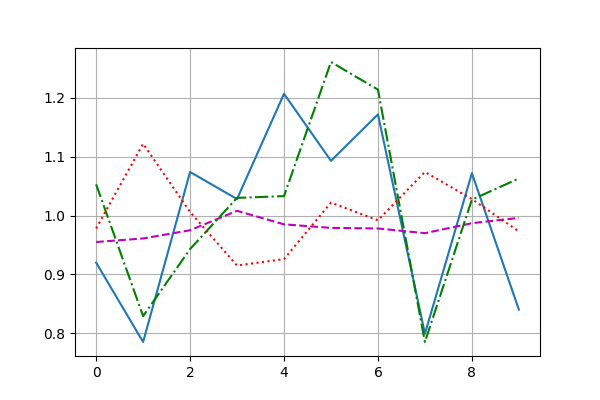
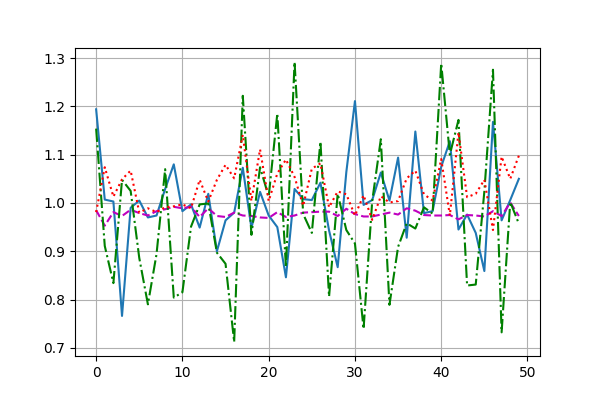
the implementaion of weight decay.

diff --git a/main.py b/main.py
@@ -11,13 +11,15 @@ warnings.filterwarnings("ignore", category=UserWarning)
 import argparse
 
 import torch
+import time
 from collections import defaultdict
 from torch.utils.data import DataLoader
 from torchvision.datasets import FashionMNIST
 from datasets.fashion_mnist import make_fashion_mnist_transforms
 import matplotlib.pyplot as plt
 from util.plot_utils import plot, save_plot
-
+from engine import train_one_epoch, evaluate
+import wandb
 def main_manual_linreg():
     from linear_regression.datasets.data import synthetic_data
     from linear_regression.datasets.data_util import data_iter
@@ -69,6 +71,7 @@ def main_manual_linreg():
     
     plot(x.flatten(), [y, pred_y], xlabel="x", ylabel="y")
     save_plot("manual_linreg_true_vs_pred_epoch_"+str(epochs))
+
 def main_concise_linreg():
     from linear_regression.datasets.data import synthetic_data
     from linear_regression.datasets.data_util import data_iter
@@ -117,7 +120,6 @@ def main_concise_linreg():
     plot(x.flatten(), [y, pred_y], xlabel="x", ylabel="y")
     save_plot("concise_linreg_true_vs_pred_epoch_"+str(epochs))
    
-   
 def main_manual_linregsm():
     from soft_max.manual_implementation.engine import train_one_epoch, evaluate
     from soft_max.manual_implementation import build_model
@@ -158,8 +160,8 @@ def main_manual_linregsm():
     titles = [true+'\n'+pred for true, pred in zip(trues,preds)]
     n=10
     show_images(x[:n].reshape(n, 28, 28), 1, n, titles=titles)
-    plt.show()
-     
+    plt.show()  
+
 def main_concise_linregsm():
     from soft_max.concise_implementation.model import SetCriterion, PostProcess, LinRegSm
     from soft_max.concise_implementation.engine import train_one_epoch, evaluate
@@ -174,11 +176,18 @@ def main_concise_linregsm():
     criterion = SetCriterion(args)
     postprocessor = PostProcess()
     optimizer = torch.optim.SGD(model.parameters(), lr=args.learning_rate)
+    
+    wandb.init(project=args.project,
+               dir = args.wandb_dir,
+               name = model.__class__.__name__ + "_" + time.asctime(),
+               reinit=True
+               )
     metrics = defaultdict(list)
     class_preds = [[0]*args.num_classes]
     for epoch in range(args.epochs):
         train_stats = train_one_epoch(model, criterion, dataset_loader_train, optimizer, epoch)
-        test_stats, fashionmnist_evaluator = evaluate(model, criterion, postprocessor, dataset_loader_test, args)
+        test_stats, fashionmnist_evaluator = evaluate(model, postprocessor, dataset_loader_test, args)
+        wandb.log({**train_stats, **test_stats})
         for k, v in train_stats.items():
             metrics[k].append(v)
         for k, v in test_stats.items():
@@ -190,7 +199,75 @@ def main_concise_linregsm():
         plot(v)
         save_plot("_".join([model.__class__.__name__, k]))
         plt.close()
+
+def main_mlp():
+    from mlp.model import MLP, SetCriterion, PostProcess
+    args = get_args_parser()
+    dataset_train, dataset_test = get_datasets(args)
+    data_train_loader = torch.utils.data.DataLoader(dataset_train, batch_size=args.batch_size, shuffle=True, num_workers=args.num_workers)
+    data_test_loader = torch.utils.data.DataLoader(dataset_test, batch_size=args.batch_size, shuffle=True, num_workers=args.num_workers)
+    model = MLP(num_inputs=args.num_inputs, num_classes=args.num_classes)
+    criterion = SetCriterion(args)
+    postprocessor = PostProcess()
+    optimizer = torch.optim.SGD(model.parameters(), lr=args.learning_rate)
+    if args.wandb:
+        wandb.init(project=args.project,
+                dir = args.wandb_dir,
+                name = model.__class__.__name__ + "_" + time.asctime(),
+                reinit=True
+                )
+    metrics = defaultdict(list)
+    for epoch in range(args.epochs):
+        train_stats = train_one_epoch(model,criterion, data_train_loader, optimizer, epoch)
+        test_stats, fashionmnist_evaluator = evaluate(model, postprocessor, data_test_loader, args)
+        if args.wandb:
+            wandb.log({**train_stats, **test_stats})
+        for k, v in train_stats.items():
+            metrics[k].append(v)
+        for k, v in test_stats.items():
+            metrics[k].append(v)
+        metrics['classes'].append([x/y for x, y in zip(fashionmnist_evaluator.pred_counts,fashionmnist_evaluator.label_counts)])
     
+    metrics['classes'] = list(map(list, zip(*metrics['classes'])))
+    for k, v in metrics.items():
+        plot(v)
+        save_plot("_".join([model.__class__.__name__, k]))
+        plt.close()  
+
+def main_mlp_decay():
+    from mlp.model import MLP, SetCriterion, PostProcess
+    args = get_args_parser()
+    dataset_train, dataset_test = get_datasets(args)
+    data_train_loader = torch.utils.data.DataLoader(dataset_train, batch_size=args.batch_size, shuffle=True, num_workers=args.num_workers)
+    data_test_loader = torch.utils.data.DataLoader(dataset_test, batch_size=args.batch_size, shuffle=True, num_workers=args.num_workers)
+    model = MLP(num_inputs=args.num_inputs, num_classes=args.num_classes)
+    criterion = SetCriterion(args)
+    postprocessor = PostProcess()
+    optimizer = torch.optim.SGD([{"params":[model.linear1.weight, model.linear2.weight], "weight_decay":args.weight_decay}, {"params": [model.linear1.bias, model.linear2.bias], "weight_decay":0.0}], lr=args.learning_rate)
+    if args.wandb:
+        wandb.init(project=args.project,
+                dir = args.wandb_dir,
+                name = model.__class__.__name__ +"_weight_decay_" + time.asctime(),
+                reinit=True
+                )
+    metrics = defaultdict(list)
+    for epoch in range(args.epochs):
+        train_stats = train_one_epoch(model,criterion, data_train_loader, optimizer, epoch)
+        test_stats, fashionmnist_evaluator = evaluate(model, postprocessor, data_test_loader, args)
+        if args.wandb:
+            wandb.log({**train_stats, **test_stats})
+        for k, v in train_stats.items():
+            metrics[k].append(v)
+        for k, v in test_stats.items():
+            metrics[k].append(v)
+        metrics['classes'].append([x/y for x, y in zip(fashionmnist_evaluator.pred_counts,fashionmnist_evaluator.label_counts)])
+    
+    metrics['classes'] = list(map(list, zip(*metrics['classes'])))
+    for k, v in metrics.items():
+        plot(v)
+        save_plot("_".join([model.__class__.__name__, k]))
+        plt.close()  
+        
 def get_args_parser():
     parser = argparse.ArgumentParser(
         description='The study of D2L.')
@@ -201,14 +278,19 @@ def get_args_parser():
     parser.add_argument("--test_set", default="", type=str)
     parser.add_argument("--data_root", default="data", type=str)
     parser.add_argument("--batch_size", default=100, type=int)
+    parser.add_argument("--weight_decay", default=1e-5, type=float)
     parser.add_argument("--learning_rate", default=1e-1, type=float)
     parser.add_argument("--num_workers", default=1, type=int)
     parser.add_argument("--start_epoch", default=0, type=int)
-    parser.add_argument("--epochs", default=10, type=int)
+    parser.add_argument("--epochs", default=50, type=int)
     parser.add_argument("--num_inputs", default=784, type=int)
     parser.add_argument("--num_classes", default=10, type=int)
+    parser.add_argument("--project", default="D2L", type=str)
+    parser.add_argument("--wandb_dir", default="wandb", type=str)
+    parser.add_argument("--wandb", default=True, type=bool)
     args = parser.parse_args()
     return args
+
 def get_datasets(args):
     train_set = args.train_set
     test_set = args.test_set
@@ -220,8 +302,9 @@ if __name__ == "__main__":
     # main_manual_linreg()
     # main_concise_linreg()
     # main()
-    main_concise_linregsm()
-    
+    # main_concise_linregsm()
+    # main_mlp()
+    main_mlp_decay()
     # x = torch.arange(20).reshape(4, 5)
     # print("x = ", x)
     # y = torch.arange(1,5).reshape(-1, 1)

diff --git a/mlp/model.py b/mlp/model.py
@@ -1,0 +1,54 @@
+#!/usr/bin/env python
+# -*- encoding: utf-8 -*-
+'''
+@File    :   model.py
+@Time    :   2026/01/07 15:51:31
+@Author  :   sss
+@description   :   the concise implementation of mlp
+'''
+import torch
+class MLP(torch.nn.Module):
+    def __init__(self,num_inputs, num_classes, num_mid=256):
+        super().__init__()
+        self.flatten = torch.nn.Flatten()
+        self.linear1 = torch.nn.Linear(num_inputs, num_mid)
+        self.relu = torch.nn.ReLU()
+        self.linear2 = torch.nn.Linear(num_mid, num_classes)
+        
+        # init the parameters of mlp
+        torch.nn.init.normal_(self.linear1.weight, std=0.01)
+        torch.nn.init.normal_(self.linear2.weight, std=0.01)
+        
+        
+    def forward(self, x):
+        x = self.flatten(x)
+        x = self.linear1(x)
+        x = self.relu(x)
+        x = self.linear2(x)
+        return x
+    
+def cross_entropy_loss(logits, labels):
+    result = torch.nn.functional.cross_entropy(input=logits, target=labels)
+    return result
+    
+class SetCriterion(torch.nn.Module):
+    def __init__(self, args):
+        super().__init__()
+    def forward(self, logits, labels):
+        return cross_entropy_loss(logits, labels)
+
+class PostProcess(torch.nn.Module):
+    def forward(self, logits, labels):
+        if logits.ndim > 1 and logits.size(-1) > 1:
+            preds = torch.argmax(logits, dim=-1)
+        else:
+            preds = logits
+        correct_mask = preds == labels
+        return {
+            "preds":preds,
+            "labels":labels,
+            "num_correct": correct_mask.sum(),
+            "num_samples":labels.numel(),            
+        }
+    
+        

diff --git a/engine.py b/engine.py
@@ -2,6 +2,14 @@
 # -*- encoding: utf-8 -*-
 '''
 @File    :   engine.py
+@Time    :   2026/01/07 15:47:54
+@Author  :   sss
+@description   :   xxxxxxxxx
+'''
+#!/usr/bin/env python
+# -*- encoding: utf-8 -*-
+'''
+@File    :   engine.py
 @Time    :   2025/12/30 22:23:12
 @Author  :   sss
 @description   :   xxxxxxxxx
@@ -9,7 +17,6 @@
 
 
 import torch
-from util.misc import Accumulator
 import util.misc as util
 from datasets.fashion_mnist_eval import FashionMnistEvaluator
 def train_one_epoch(model:torch.nn.Module, criterion, data_loader, optimizer, epoch):

diff --git a/soft_max/concise_implementation/model.py b/soft_max/concise_implementation/model.py
@@ -42,8 +42,8 @@ class PostProcess(torch.nn.Module):
             
         correct_mask = preds == labels
         return {
-            "preds": preds.detach(),
-            "labels":labels.detach(), 
+            "preds": preds,
+            "labels":labels, 
             "num_correct": correct_mask.sum(),
             "num_samples": labels.numel()
         }
